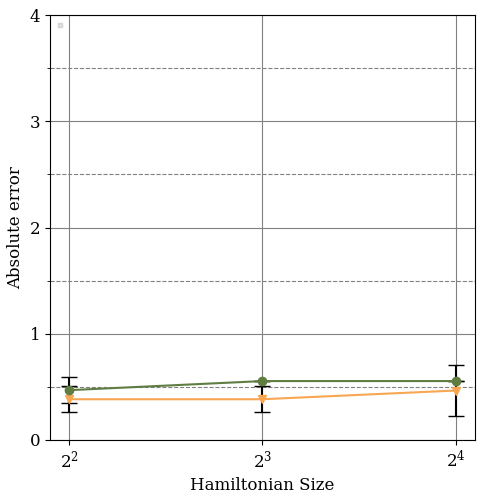
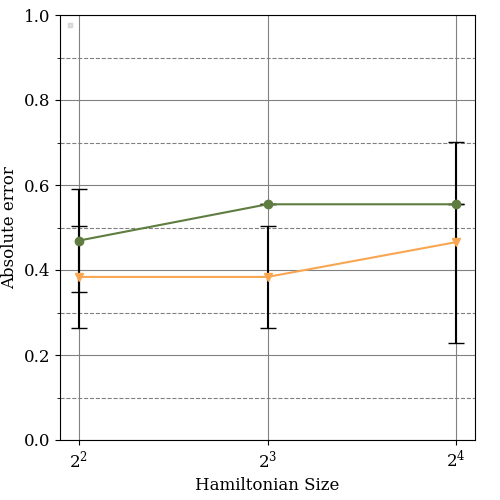
updated y axis scale on accuracy scaling

diff --git a/QuantumWalk/RefactoredScalingTests/Plotting/plots.py b/QuantumWalk/RefactoredScalingTests/Plotting/plots.py
@@ -159,14 +159,14 @@ for size in sizes:
 #plot accuracy scaling
 fig = plt.figure(figsize = (5, 5))
 ax = fig.add_subplot(1, 1, 1)
-plt.subplots_adjust(left=0.1, right=0.95, top=0.97, bottom=0.12)
+plt.subplots_adjust(left=0.12, right=0.95, top=0.97, bottom=0.12)
 ax.errorbar(x, saData, yerr = saStd, ls='none', capsize=6, color='k') 
 ax.errorbar(x, qaData, yerr = qaStd, ls='none', capsize=6, color='k')
 ax.plot(x, saData, '-v', color='#f8a652', label="SA" if i == trials else "")
 ax.plot(x, qaData, '-o', color='#5f7d41',label="QA-P" if i == trials else "")
 major_ticks = x
-ymajor_ticks = [0,1,2,3,4]
-yminor_ticks = [0,0.5,1,1.5,2,2.5,3.5,4]
+ymajor_ticks = [0,0.2, 0.4, 0.6, 0.8, 1.0]
+yminor_ticks = [0,0.1,0.2,0.3,0.4,0.5,0.6,0.7,0.8,0.9,1.0]
 ax.set_xscale('log', base=2)
 ax.set_xticks(major_ticks)
 ax.set_yticks(ymajor_ticks)
